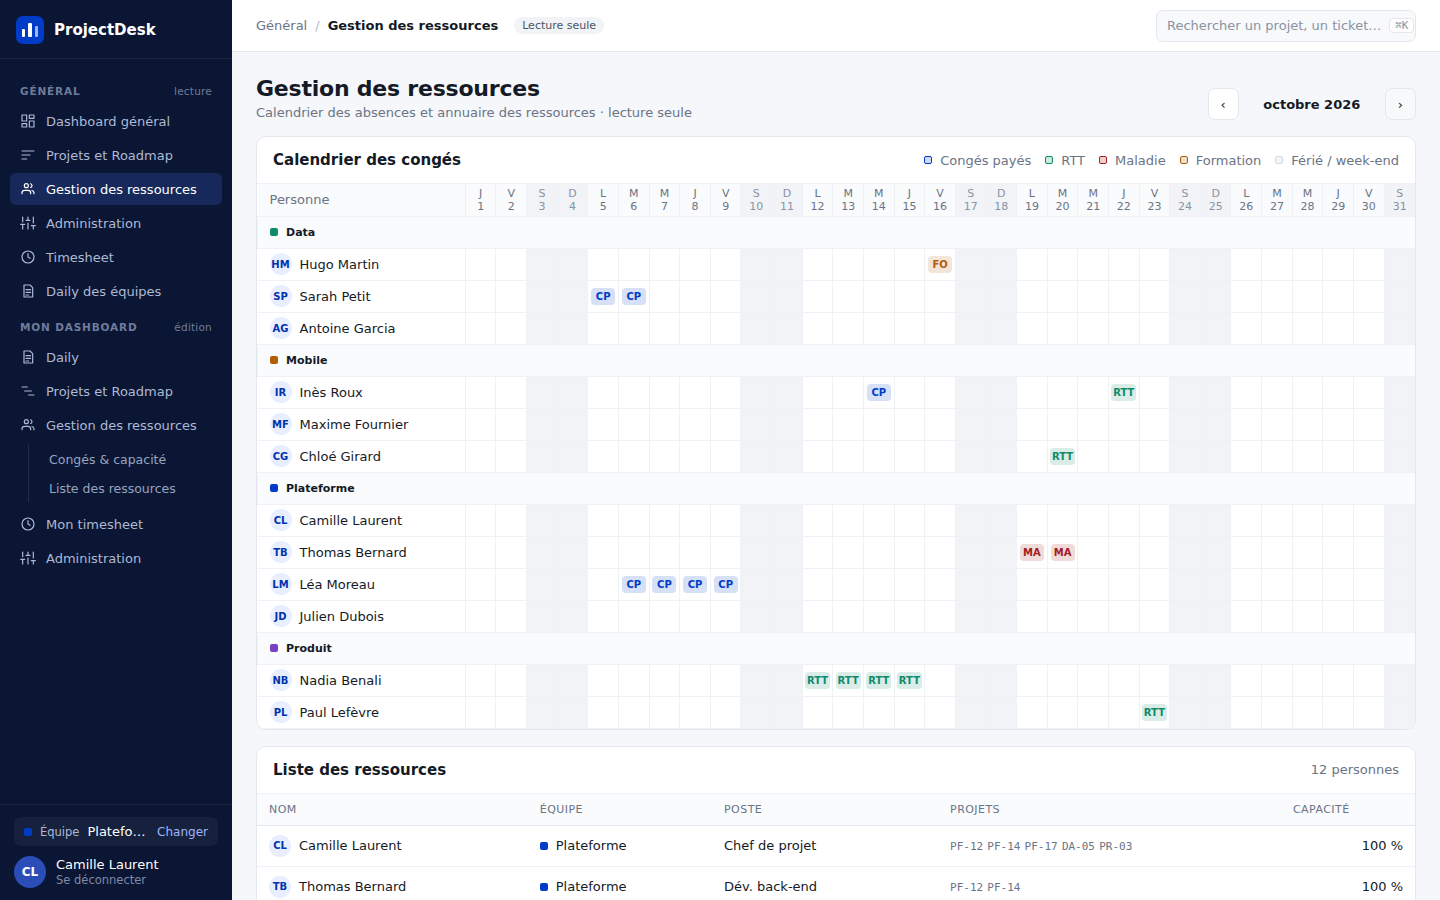
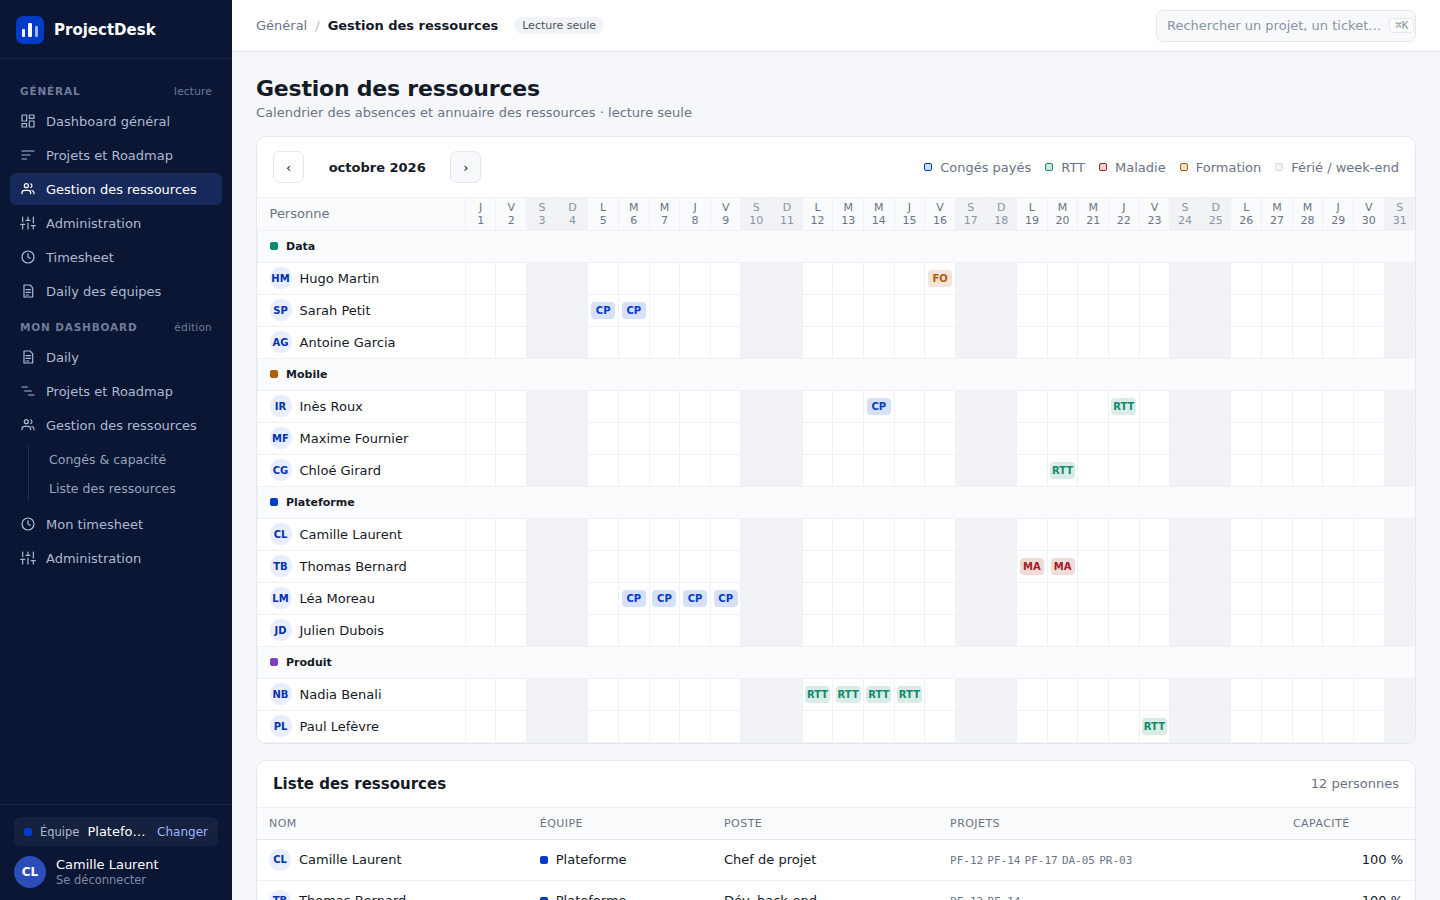
Calendriers : sélecteur de mois au-dessus du calendrier, à gauche
Congés & capacité (grille et récap) et Général › Gestion des ressources.
DAT v1.21.

Claude-Session: https://claude.ai/code/session_0187v8SY8uiT6dnWqjjqJYb6

diff --git a/app/js/ecrans/conges.js b/app/js/ecrans/conges.js
@@ -48,10 +48,11 @@ Ecrans.conges = {
 
     // Contenu de chaque onglet
     const onglet = this.onglet();
-    const grille = `<div class="carte"><div class="carte-titre"><h2>Grille mensuelle</h2><div class="puces">${pinceaux}</div></div>${Calendrier.rendre(true)}</div>`;
+    // Sélecteur de mois juste au-dessus du calendrier, à gauche (demande du porteur)
+    const grille = `<div class="carte"><div class="carte-titre">${Calendrier.navigation()}<div class="puces">${pinceaux}</div></div>${Calendrier.rendre(true)}</div>`;
     // Type d'absence décompté du droit annuel (clé « cp ») : son libellé est administrable
     const typeDecompte = esc(ABSENCES.CP);
-    const recapAnnuel = `<div class="carte"><div class="carte-titre"><h2>Récap annuel ${annee}</h2><span class="discret">en jours · droit annuel (${typeDecompte}) : ${CONFIG.DROIT_CP_ANNUEL} j</span></div>
+    const recapAnnuel = `<div class="carte"><div class="carte-titre"><div class="ligne-flex">${Calendrier.navigation()}<h2>Récap annuel ${annee}</h2></div><span class="discret">en jours · droit annuel (${typeDecompte}) : ${CONFIG.DROIT_CP_ANNUEL} j</span></div>
       <table class="tableau"><thead><tr><th>Personne</th><th>${typeDecompte}</th>${types.filter(t => t.libelle !== ABSENCES.CP).map(t => `<th class="num">${esc(t.abrege || t.libelle)}</th>`).join('')}
         <th class="num">Total</th><th class="num">Solde</th></tr></thead>
         <tbody>${recap || `<tr><td colspan="8">${C.vide('Aucune ressource.')}</td></tr>`}</tbody></table></div>`;
@@ -64,12 +65,10 @@ Ecrans.conges = {
       { id: 'recap', libelle: `Récap annuel ${annee}` },
       { id: 'capacite', libelle: 'Capacité par sprint' }
     ], onglet, 'ongletConges');
-    // Navigation mensuelle : utile à la grille et au récap (année affichée)
-    const navigation = onglet === 'capacite' ? '' : Calendrier.navigation();
 
     return `
     <div class="ecran">
-      ${C.entete('Congés & capacité', onglet === 'grille' ? 'Choisissez un type d’absence puis cliquez sur les jours pour l’appliquer ou le retirer' : 'Absences, récapitulatif annuel et capacité des équipes', navigation)}
+      ${C.entete('Congés & capacité', onglet === 'grille' ? 'Choisissez un type d’absence puis cliquez sur les jours pour l’appliquer ou le retirer' : 'Absences, récapitulatif annuel et capacité des équipes')}
       ${onglets}
       ${{ grille, recap: recapAnnuel, capacite }[onglet]}
     </div>`;

diff --git a/app/js/ecrans/ressources.js b/app/js/ecrans/ressources.js
@@ -74,8 +74,8 @@ Ecrans.ressources = {
     }).join('');
     return `
     <div class="ecran">
-      ${C.entete('Gestion des ressources', 'Calendrier des absences et annuaire des ressources · lecture seule', Calendrier.navigation())}
-      <div class="carte"><div class="carte-titre"><h2>Calendrier des congés</h2>${Calendrier.legende()}</div>${Calendrier.rendre(false)}</div>
+      ${C.entete('Gestion des ressources', 'Calendrier des absences et annuaire des ressources · lecture seule')}
+      <div class="carte"><div class="carte-titre">${Calendrier.navigation()}${Calendrier.legende()}</div>${Calendrier.rendre(false)}</div>
       <div class="carte"><div class="carte-titre"><h2>Liste des ressources</h2><span class="discret">${etat.d.ressources.length} personnes</span></div>
         <table class="tableau"><thead><tr><th>Nom</th><th>Équipe</th><th>Poste</th><th>Projets</th><th class="num">Capacité</th></tr></thead>
         <tbody>${annuaire || `<tr><td colspan="5">${C.vide('Aucune ressource.')}</td></tr>`}</tbody></table></div>

diff --git a/docs/DAT.md b/docs/DAT.md
@@ -33,6 +33,7 @@
 | 1.18    | 2026-09-25 | Données à jour sans F5 (lectures `no-store`, `no-cache` Vercel) ; panneau projet modifiable (nom, description, chef, dates) et supprimable, ouvert depuis Liste des ressources (§ 3.4, § 8) |
 | 1.19    | 2026-09-25 | Types d'absence (données) : Congés validé (vert, décompté du droit annuel, clé `cp`), Congés prévisionnel (orange), Jours férié (marron) ; Formation désactivé ; en-tête du récap annuel = libellé du type décompté (§ 3.3) |
 | 1.20    | 2026-09-25 | Panneau projet : objectif, résultat clé, période, statut, avancement et tickets retirés (§ 3.4) |
+| 1.21    | 2026-09-25 | Calendriers (Congés & capacité, Général › Gestion des ressources) : sélecteur de mois déplacé juste au-dessus du calendrier, à gauche (§ 3.2, § 3.3) |
 
 ---
 
